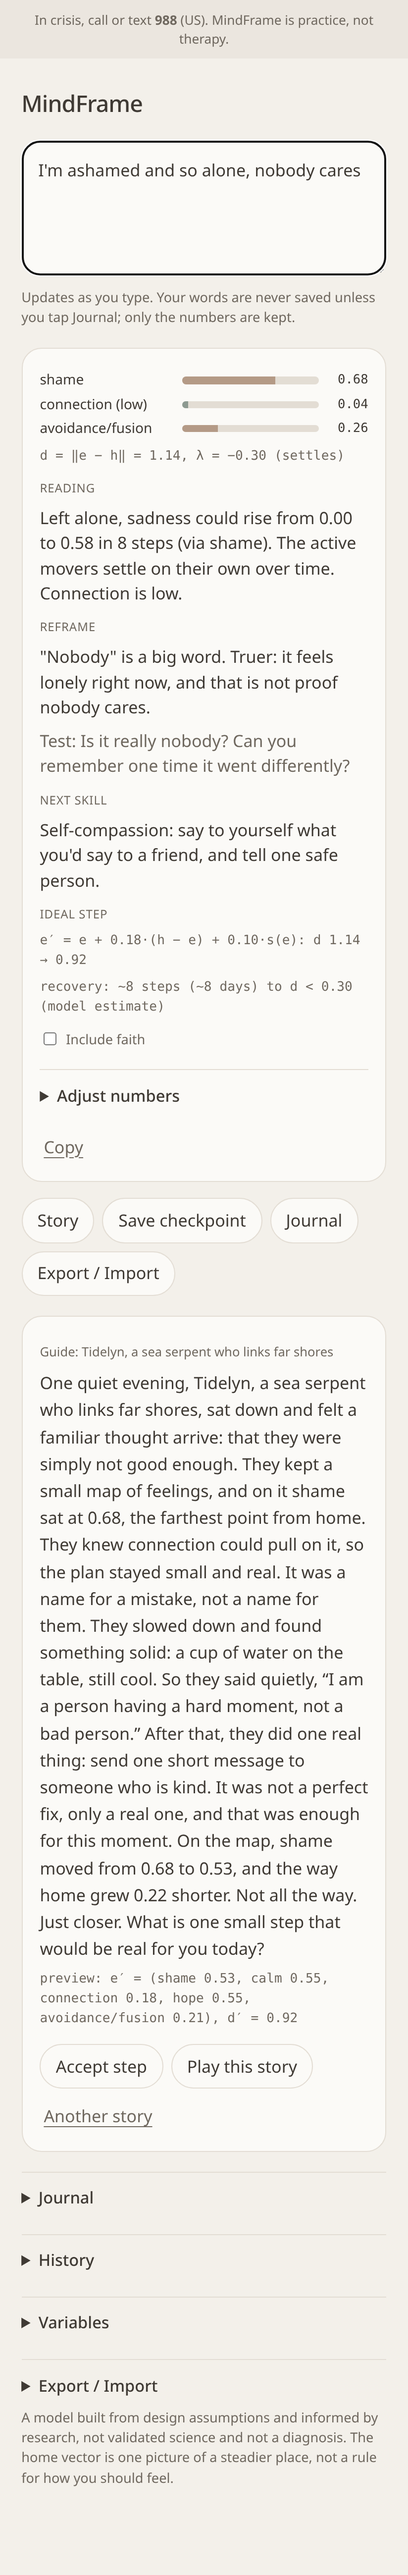
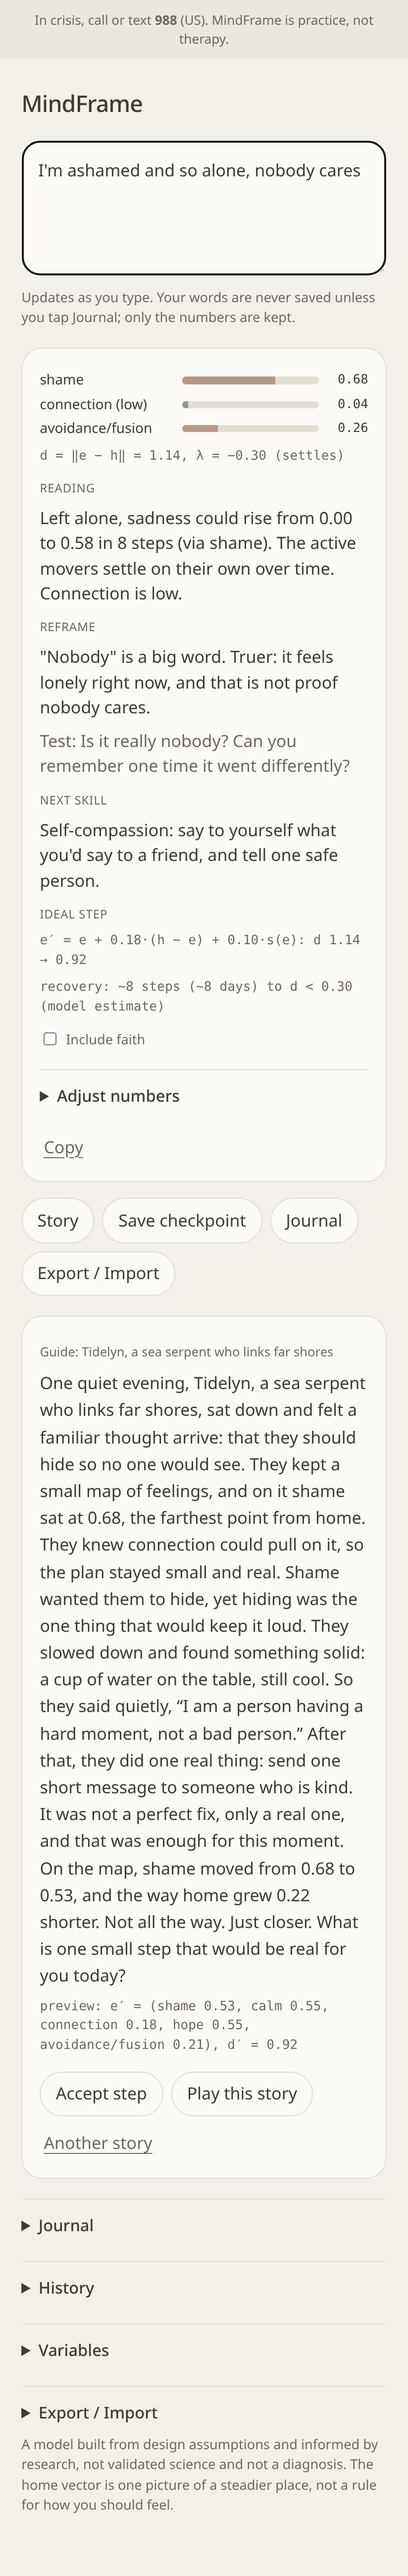
Stories open with the strongest mover

Changed region(s): [[0.0303, 0.5298, 0.9405, 0.9661]]

diff --git a/js/stories.js b/js/stories.js
@@ -50,6 +50,47 @@ const Stories = (function () {
     none: ["a heavy thought that felt bigger than it was", "a cloudy thought that would not settle", "an old worry that came back"],
   };
 
+  // Openings by mover: the strongest hard/process mover, or the grounding mover
+  // with the biggest gap (hope, connection, calm mean "low hope" and so on).
+  // Used unless the text has a clear thinking pattern that fits that mover.
+  const MOVER_MIRAGE = {
+    anger: ["a hot, tight thought that someone had wronged {them}", "that it wasn't fair, and the unfairness burned", "a flash of anger that wanted to answer right away"],
+    shame: ["that something about {them} was wrong underneath it all", "that {they} should hide so no one would see", "a small, hot feeling of not being enough"],
+    fear: ["a tight worry that something was about to go wrong", "a jumpy feeling that kept scanning for danger", "a worry that would not sit still"],
+    sadness: ["a heavy, gray feeling that sat on {their} chest", "that something good had been lost", "a tiredness that felt like sorrow"],
+    rumination: ["the same old scene, replaying again and again", "a question that kept circling without an answer", "a loop of going over what had already happened"],
+    avoidance: ["that it would be easier not to face it today", "an urge to put it off one more time", "that if {they} just didn't look, it would go away"],
+    hope: ["that nothing ahead was worth reaching for", "that the road forward had gone dim", "that trying again would not change anything"],
+    connection: ["that no one would notice if {they} disappeared for a while", "that {they} were on the outside, looking in", "a quiet, far-away loneliness"],
+    calm: ["a buzzing restlessness with nowhere to land", "that {they} could not slow down", "a busy, unsettled hum under everything"],
+  };
+  const MOVER_NAMING = {
+    anger: ["The anger was real and it pointed at something that mattered, but it did not have to choose {their} next move.", "Anger can be a signal; {they} could listen to it without letting it drive."],
+    shame: ["The feeling said something was wrong with {them}, but a hard moment is not a verdict on a person.", "Shame wanted {them} to hide, yet hiding was the one thing that would keep it loud."],
+    fear: ["The worry was a body alarm, not a forecast, and alarms can ring when nothing is wrong.", "Fear was trying to protect {them}; {they} could thank it and still check what was real."],
+    sadness: ["The sadness was real, and it could be felt without deciding anything.", "Sad is a weather, not a climate; it can be here and still pass."],
+    rumination: ["Going over it again had not brought an answer, only more of the same.", "The loop felt like thinking, but it was turning in place, not moving forward."],
+    avoidance: ["Putting it off felt like relief, but the relief was small and the weight came back.", "Not looking made it bigger; one small look would make it its true size."],
+    hope: ["Dim is not the same as dark; the next step only needed a little light.", "Hope did not need to be big. It only needed one small next thing."],
+    connection: ["Feeling alone was real, but it was a feeling about now, not proof about everyone.", "Loneliness says no one is there; often someone is, a message away."],
+    calm: ["The body was running fast, and bodies can be slowed down on purpose.", "Restless is a state, not a fact about the day; a slower breath can change it."],
+  };
+  // Thinking patterns that fit each mover. Only these may replace a mover's opening.
+  const MOVER_FITS = {
+    anger: [], shame: ["labeling", "mindReading"], fear: ["fortuneTelling", "catastrophizing", "meaning"],
+    sadness: ["hopelessness"], rumination: ["allOrNothing"], avoidance: ["fortuneTelling"],
+    hope: ["hopelessness", "fortuneTelling"], connection: ["mindReading"], calm: ["catastrophizing"],
+  };
+  const MOVERS = Object.keys(MOVER_MIRAGE);
+
+  // Which lines open the story: the mover's own, or a fitting pattern's.
+  function opening(mover, read) {
+    const arc = arcFor(read);
+    if (!MOVERS.includes(mover)) return { from: "pattern", key: arc, mirage: MIRAGE[arc], naming: NAMING[arc] };
+    if (arc !== "none" && MOVER_FITS[mover].includes(arc)) return { from: "pattern", key: arc, mirage: MIRAGE[arc], naming: NAMING[arc] };
+    return { from: "mover", key: mover, mirage: MOVER_MIRAGE[mover], naming: MOVER_NAMING[mover] };
+  }
+
   const OPENINGS = [
     "{Intro} woke one gray morning with an old thought: {mirage}.",
     "One quiet evening, {intro} sat down and felt a familiar thought arrive: {mirage}.",
@@ -181,7 +222,7 @@ const Stories = (function () {
     return ARCS.includes(top) ? top : "none";
   }
 
-  // opts: { read, thought, reframe, step, faith, you, seed, avoid }
+  // opts: { read, thought, reframe, step, faith, you, seed, avoid, mover }
   // Returns { crisis: true } and nothing else when any text reads as a crisis.
   function tell(opts = {}) {
     const texts = [opts.thought, opts.reframe, opts.step].filter(Boolean);
@@ -209,18 +250,19 @@ const Stories = (function () {
     const p = you
       ? { they: "you", them: "you", themself: "yourself", their: "your", intro: "you", Intro: "You" }
       : { they: "they", them: "them", themself: "themself", their: "their", intro: who.intro, Intro: who.intro };
-    const pro = { they: p.they, them: p.them, themself: p.themself, They: cap(p.they) };
+    const pro = { they: p.they, them: p.them, themself: p.themself, their: p.their, They: cap(p.they) };
 
     const reframe = asReframe(opts.reframe) || asReframe((read && read.reframes && read.reframes[0]) || "This is a thought, not a fact.");
     const step = asStep(opts.step, you) || pick(DEFAULT_STEPS);
     let real = pick(REAL_THINGS);
     if (you) real = real.replace(/\btheir\b/g, "your");
 
+    const op = opening(opts.mover, read);
     const picks = [];
     const pickI = list => { const i = Math.floor(rand() * list.length); picks.push(i); return list[i]; };
     const sentences = [
-      fill(OPENINGS[oi], { ...pro, intro: p.intro, Intro: p.Intro, mirage: fill(pick(MIRAGE[arc]), pro) }),
-      fill(pickI(NAMING[arc]), pro),
+      fill(OPENINGS[oi], { ...pro, intro: p.intro, Intro: p.Intro, mirage: fill(pick(op.mirage), pro) }),
+      fill(pickI(op.naming), pro),
       fill(pickI(NOTICING), { ...pro, real }),
       fill(pickI(SAYING), { ...pro, reframe }),
       fill(pickI(STEPPING), { ...pro, step }),
@@ -234,7 +276,7 @@ const Stories = (function () {
     const tidy = sentences.map(s => cap(s).replace(/([.!?\u2026]["\u201D])\.$/, "$1"));
     sentences.splice(0, sentences.length, ...tidy);
     const text = sentences.join(" ");
-    return { crisis: false, arc, faith, you, character: who.name, tag: `${who.name}, ${who.intro.slice(who.name.length + 2).replace(/,$/, "")}`, key: [oi, ...picks].join("-"), sentences, text };
+    return { crisis: false, arc, opening: op.key, openingFrom: op.from, faith, you, character: who.name, tag: `${who.name}, ${who.intro.slice(who.name.length + 2).replace(/,$/, "")}`, key: [oi, ...picks].join("-"), sentences, text };
   }
 
   // Safe markup, if a caller ever needs HTML. The app itself uses textContent.
@@ -243,9 +285,9 @@ const Stories = (function () {
   }
 
   // Shared with games.js so games use the same story pieces.
-  const parts = { MIRAGE, NAMING, REAL_THINGS, FAITH, LANDING, QUESTIONS, DEFAULT_STEPS, asReframe, asStep, rng, fill, cap };
+  const parts = { MIRAGE, NAMING, MOVER_MIRAGE, MOVER_NAMING, MOVER_FITS, opening, REAL_THINGS, FAITH, LANDING, QUESTIONS, DEFAULT_STEPS, asReframe, asStep, rng, fill, cap };
 
-  return { tell, toHTML, escapeHTML, truncate, arcFor, ARCS, CHARACTERS, PATTERN_CREATURE, parts };
+  return { tell, toHTML, escapeHTML, truncate, arcFor, opening, MOVERS, ARCS, CHARACTERS, PATTERN_CREATURE, parts };
 })();
 
 if (typeof module !== "undefined" && module.exports) module.exports = Stories;

diff --git a/tests/openings.test.js b/tests/openings.test.js
@@ -1,0 +1,104 @@
+// Run: node tests/openings.test.js   (no dependencies)
+// Story openings and the path game's first scene follow the strongest mover.
+const assert = require("node:assert/strict");
+const S = require("../js/stories.js");
+const Gm = require("../js/games.js");
+const M = require("../js/model.js");
+
+let passed = 0;
+function test(name, fn) {
+  try { fn(); passed += 1; console.log("ok  -", name); }
+  catch (err) { console.error("FAIL -", name); console.error(err); process.exitCode = 1; }
+}
+const P = S.parts;
+const pro = { they: "they", them: "them", themself: "themself", their: "their", They: "They" };
+const lines = list => list.map(l => P.fill(l, pro));
+const has = (text, list) => lines(list).some(l => text.includes(l));
+const I = n => M.NAMES.indexOf(n);
+const live = text => {
+  const s = M.defaultState(), r = M.fromText(text);
+  const state = { ...s, e: M.combine(s.e, r.w) };
+  return { state, m: M.metrics(state, { notes: r.notes, read: r.read }) };
+};
+// A state where one mover leads: a hard/process mover high, or one grounding mover low.
+function leading(mover) {
+  const s = M.defaultState();
+  if (M.GROUND.includes(mover)) s.e[I(mover)] = 0.1;
+  else s.e[I(mover)] = 0.7;
+  return s;
+}
+const ALL9 = ["anger", "shame", "fear", "sadness", "rumination", "avoidance", "hope", "connection", "calm"];
+const S1 = "I'm so angry and jealous of my brother, I feel far from God and lazy";
+const FEARISH = [...P.MIRAGE.fortuneTelling, ...P.MIRAGE.catastrophizing, ...P.MIRAGE.meaning, ...P.MOVER_MIRAGE.fear];
+const FEAR_NAMING = [...P.NAMING.fortuneTelling, ...P.NAMING.catastrophizing, ...P.NAMING.meaning, ...P.MOVER_NAMING.fear];
+
+test("there are openings and naming lines for all nine movers", () => {
+  assert.deepEqual(S.MOVERS.slice().sort(), ALL9.slice().sort());
+  ALL9.forEach(n => {
+    assert.ok(P.MOVER_MIRAGE[n].length >= 3, n);
+    assert.ok(P.MOVER_NAMING[n].length >= 2, n);
+  });
+});
+
+for (const mover of ALL9) {
+  test(`${mover}: the story opens with a ${mover} line (Stories.tell, 20 seeds)`, () => {
+    for (let seed = 0; seed < 20; seed++) for (const faith of [false, true]) {
+      const st = S.tell({ read: { patterns: [], reframes: ["x"] }, mover, seed, faith });
+      assert.equal(st.opening, mover);
+      assert.equal(st.openingFrom, "mover");
+      assert.ok(has(st.sentences[0], P.MOVER_MIRAGE[mover]), st.sentences[0]);
+      assert.ok(has(st.sentences[1], P.MOVER_NAMING[mover]), st.sentences[1]);
+      assert.ok(!/\{\w+\}/.test(st.text), "no unfilled template");
+    }
+  });
+  test(`${mover}: the model picks it as the opening when it leads`, () => {
+    const s = leading(mover);
+    const story = M.story(s, M.metrics(s), { seed: 3 });
+    assert.equal(story.focus, mover);
+    assert.equal(story.opening, mover);
+    assert.ok(has(story.text, P.MOVER_MIRAGE[mover]));
+  });
+  test(`${mover}: the path game's first scene matches`, () => {
+    for (let seed = 0; seed < 10; seed++) {
+      const g = Gm.make({ thought: "Today felt heavy.", mover, seed });
+      assert.equal(g.opening, mover);
+      assert.ok(has(g.scenes[0].text, P.MOVER_MIRAGE[mover]), g.scenes[0].text);
+      const grounded = g.scenes[0].choices.find(c => c.grounded);
+      assert.ok(has(grounded.feedback, P.MOVER_NAMING[mover]));
+      assert.ok(!/\{\w+\}/.test(g.scenes[0].text + grounded.feedback));
+    }
+  });
+}
+
+test("a fitting thinking pattern keeps its own opening; a non-fitting one does not", () => {
+  const cat = { patterns: ["catastrophizing"], reframes: ["x"] };
+  assert.equal(S.tell({ read: cat, mover: "fear", seed: 1 }).opening, "catastrophizing");
+  assert.equal(S.tell({ read: cat, mover: "anger", seed: 1 }).opening, "anger");
+  assert.equal(S.tell({ read: { patterns: ["labeling"], reframes: ["x"] }, mover: "shame", seed: 1 }).opening, "labeling");
+  assert.equal(S.tell({ read: { patterns: ["labeling"], reframes: ["x"] }, mover: "sadness", seed: 1 }).opening, "sadness");
+  assert.equal(S.tell({ read: { patterns: ["hopelessness"], reframes: ["x"] }, mover: "hope", seed: 1 }).opening, "hopelessness");
+  assert.equal(S.tell({ read: { patterns: [], reframes: ["x"] }, seed: 1 }).opening, "none", "no mover: pattern templates as before");
+});
+
+test("the anger sentence never opens with a fear or prediction thought (stories and game)", () => {
+  const { state, m } = live(S1);
+  for (let seed = 1; seed <= 60; seed++) for (const faith of [false, true]) {
+    const st = M.story(state, m, { seed, faith });
+    assert.equal(st.focus, "anger");
+    assert.equal(st.opening, "anger");
+    assert.ok(!has(st.text, FEARISH), st.text);
+    assert.ok(!has(st.text, FEAR_NAMING), st.text);
+    assert.ok(has(st.text, P.MOVER_MIRAGE.anger));
+    const g = Gm.make({ thought: S1, read: m.read, mover: st.focus, seed, faith });
+    assert.ok(!has(g.scenes[0].text, FEARISH));
+    assert.ok(has(g.scenes[0].text, P.MOVER_MIRAGE.anger));
+  }
+});
+
+test("the shame sentence opens with shame", () => {
+  const { state, m } = live("I'm ashamed and so alone, nobody cares");
+  const st = M.story(state, m, { seed: 1 });
+  assert.equal(st.opening, "shame");
+});
+
+console.log(`\n${passed} passed`);

diff --git a/js/games.js b/js/games.js
@@ -56,16 +56,17 @@ const Games = (function () {
     const name = S.PATTERN_CREATURE[arc];
     const who = S.CHARACTERS.find(c => c.name === name);
     const pick = list => list[Math.floor(rand() * list.length)];
-    const pro = { they: "they", them: "them", themself: "themself", They: "They" };
+    const pro = { they: "they", them: "them", themself: "themself", their: "their", They: "They" };
     const reframe = P.asReframe(opts.reframe) || P.asReframe((read.reframes && read.reframes[0]) || "This is a thought, not a fact.");
     const step = P.asStep(opts.step, false) || pick(GAME_STEPS);
     const faith = opts.faith === undefined ? arc === "meaning" : !!opts.faith;
+    const op = S.opening(opts.mover, read);
     return {
-      read, arc, faith, reframe, step,
+      read, arc, faith, opening: op.key, openingFrom: op.from, reframe, step,
       creature: name,
       tag: `${name}, ${who.intro.slice(name.length + 2).replace(/,$/, "")}`,
-      mirage: P.fill(pick(P.MIRAGE[arc]), pro),
-      naming: P.fill(pick(P.NAMING[arc]), pro),
+      mirage: P.fill(pick(op.mirage), pro),
+      naming: P.fill(pick(op.naming), pro),
       real: pick(P.REAL_THINGS),
       faithLine: faith ? P.fill(P.FAITH[0], pro) : "",
       landing: P.fill(pick(P.LANDING), pro),
@@ -119,7 +120,8 @@ const Games = (function () {
     return { scenes };
   }
 
-  // opts: { type, read, thought, reframe, step, faith, seed }
+  // opts: { type, read, thought, reframe, step, faith, seed, mover }
+  // mover picks scene 1's thought (see Stories.opening).
   function make(opts = {}) {
     const texts = [opts.thought, opts.reframe, opts.step].filter(Boolean);
     if (texts.some(t => G.isCrisis(t))) return { crisis: true };
@@ -134,7 +136,7 @@ const Games = (function () {
     const steps = body.scenes.length;
     return {
       crisis: false, type, fallback, seed,
-      arc: pc.arc, creature: pc.creature, tag: pc.tag, faith: pc.faith,
+      arc: pc.arc, opening: pc.opening, openingFrom: pc.openingFrom, creature: pc.creature, tag: pc.tag, faith: pc.faith,
       reframe: pc.reframe, step: pc.step,
       ending: [pc.landing, pc.faithLine, pc.question].filter(Boolean),
       steps,

diff --git a/js/model.js b/js/model.js
@@ -533,13 +533,15 @@ const Model = (function () {
   function story(state, m, opts = {}) {
     const id = m.ideal;
     if (m.d < 0.005) return null;
-    const top = id.top || focus(state).name || "calm";
+    // Strongest hard/process mover, else the grounding mover with the biggest gap.
+    const top = focus(state).name || id.top || "calm";
     const i = idx[top];
     const arc = HARD.concat(PROCESS).includes(top) ? ARC_FOR[top] : "none";
     const stab = id.stabilizer;
     const guide = stab === "connection" ? "Tidelyn" : stab === "calm" ? "Mistfawn" : stab === "hope" ? "Hivewright" : S.PATTERN_CREATURE[arc] || S.PATTERN_CREATURE.none;
-    const read = { patterns: [arc], reframes: [REFRAME[top] || REFRAME.none] };
-    const base = S.tell({ read, character: guide, step: STEP_FOR[stab] || STEP_FOR.calm, seed: opts.seed || 1, faith: !!opts.faith });
+    // The opening follows the mover; the text's own pattern is used only when it fits that mover.
+    const read = { patterns: (m.read && m.read.patterns) || [], reframes: [REFRAME[top] || REFRAME.none] };
+    const base = S.tell({ read, mover: top, character: guide, step: STEP_FOR[stab] || STEP_FOR.calm, seed: opts.seed || 1, faith: !!opts.faith });
     if (base.crisis) return null;
     const from = state.e[i], to = id.next[i];
     const map = `They kept a small map of feelings, and on it ${label(top)} sat at ${f2(from)}, the farthest point from home.`;
@@ -547,7 +549,7 @@ const Model = (function () {
     const landing = `On the map, ${label(top)} moved from ${f2(from)} to ${f2(to)}, and the way home grew ${f2(Math.max(0, id.d - id.dNext))} shorter. Not all the way. Just closer.`;
     const b = base.sentences;
     const sentences = [b[0], map, helper, ...b.slice(1, -1), landing, b[b.length - 1]];
-    return { guide, tag: base.tag, focus: top, arc, from, to, text: sentences.join(" "), next: id.next };
+    return { guide, tag: base.tag, focus: top, arc, opening: base.opening, openingFrom: base.openingFrom, from, to, text: sentences.join(" "), next: id.next };
   }
 
   function acceptStep(state, ts = Date.now()) {

diff --git a/tests/model.test.js b/tests/model.test.js
@@ -265,7 +265,7 @@ test("crisis: a crisis label inside code is refused", () => {
 });
 
 // ---------- one page ----------
-test("single page: index has no tools links; tools.html only redirects; the service worker is v11", () => {
+test("single page: index has no tools links; tools.html only redirects; the service worker is v12", () => {
   const root = path.join(__dirname, "..");
   const index = fs.readFileSync(path.join(root, "index.html"), "utf8");
   const tools = fs.readFileSync(path.join(root, "tools.html"), "utf8");
@@ -274,7 +274,7 @@ test("single page: index has no tools links; tools.html only redirects; the serv
   assert.ok(/history\.replaceState/.test(index), "old ?view/?chip links are stripped");
   assert.ok(/location\.replace\("\.\/"\)/.test(tools) && /http-equiv="refresh"/.test(tools));
   assert.ok(!/<textarea|<script src/.test(tools), "tools.html is only a redirect");
-  assert.match(sw, /mindframe-shell-v11/);
+  assert.match(sw, /mindframe-shell-v12/);
   const scripts = [...index.matchAll(/<script src="([^"]+)"/g)].map(x => x[1]);
   assert.deepEqual(scripts, ["js/analyzer.js", "js/grounding.js", "js/stories.js", "js/games.js", "js/model.js", "js/ui.js"]);
   scripts.forEach(s => assert.ok(sw.includes(`./${s}`), `${s} cached`));

diff --git a/js/ui.js b/js/ui.js
@@ -218,7 +218,7 @@ $("play").addEventListener("click", () => {
   if (!story) return;
   const text = $("input").value.trim();
   const c = Model.card(state, Model.metrics(state, live));
-  const g = Games.make({ type: "path", thought: text || Games.SAMPLES[story.arc] || Games.SAMPLES.none, reframe: c.reframe, faith: $("faith").checked, seed });
+  const g = Games.make({ type: "path", thought: text || Games.SAMPLES[story.arc] || Games.SAMPLES.none, read: live.read || undefined, mover: story.focus, reframe: c.reframe, faith: $("faith").checked, seed });
   if (g.crisis) { crisis(true); return; }
   game = { g, i: 0, tried: 0 };
   $("game").classList.remove("hidden");

diff --git a/sw.js b/sw.js
@@ -4,7 +4,7 @@
 // http://localhost:8000/. On GitHub Pages it is /mindframe/.
 // A leading slash would skip that folder and break one of those two.
 
-const CACHE = "mindframe-shell-v11";
+const CACHE = "mindframe-shell-v12";
 
 const FILES = [
   "./",

diff --git a/README.md b/README.md
@@ -66,7 +66,7 @@ Only emotions and processes with strong evidence behind them as drivers of distr
 
 Below the card:
 
-* **Story:** a creature story driven by the ideal step. Accept the step, or play the choose-a-path game.
+* **Story:** a creature story driven by the ideal step. It opens with the strongest mover (or the biggest grounding gap: low hope, connection or calm). A thinking-pattern opening is used only when the text shows a pattern that fits that mover. The path game's first scene works the same way. Accept the step, or play the choose-a-path game.
 * **Save checkpoint** (numbers only).
 * **Journal:** the only place your words are kept, and only when you tap it.
 * **Export / Import.**
@@ -108,7 +108,7 @@ eq e' = e + 0.20*(h - e) + 0.10*s(e)   # readable; ignored on import
 * `js/grounding.js`, `js/analyzer.js`: pattern reading and crisis wording.
 * `js/stories.js`, `js/games.js`: stories and the path game.
 * `tools.html` only redirects old shortcuts to the one page.
-* `sw.js` caches the shell for offline use (cache v11).
+* `sw.js` caches the shell for offline use (cache v12).
 
 Tests: `for f in tests/*.test.js; do node "$f"; done`.
 
